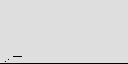
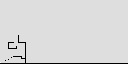
Tried to make the box2d world work. It doesn't.
Modified:
 WorldController: Switched some stuff. I know that's not descriptive but I'm in a hurry

Changed region(s): [[0.0625, 0.5312, 0.2188, 1.0], [0.0625, 0.875, 0.0938, 0.9062], [0.0312, 0.9375, 0.0625, 0.9688]]

diff --git a/Spooky/core/src/com/vgdc/spooky/WorldController.java b/Spooky/core/src/com/vgdc/spooky/WorldController.java
@@ -183,7 +183,7 @@ public class WorldController {
 		if (!cameraHelper.hasTarget(level.player)) return;
 
 		if (Gdx.input.isKeyPressed(Keys.W)) {
-			level.player.velocity.y = level.player.terminalVelocity.y;
+			level.player.body.linVelLoc.y = level.player.terminalVelocity.y;
 			level.player.setTexture(level.player.back);
 		} else if (Gdx.input.isKeyPressed(Keys.S)) {
 			level.player.velocity.y = -level.player.terminalVelocity.y;
@@ -191,10 +191,10 @@ public class WorldController {
 		}
 
 		if (Gdx.input.isKeyPressed(Keys.A)) {
-			level.player.velocity.x = -level.player.terminalVelocity.x;
+			level.player.body.linVelLoc.x = -level.player.terminalVelocity.x;
 			level.player.setTexture(level.player.left);
 		}else if (Gdx.input.isKeyPressed(Keys.D)) {
-			level.player.velocity.x = level.player.terminalVelocity.x;
+			level.player.body.linVelLoc.x = level.player.terminalVelocity.x;
 			level.player.setTexture(level.player.right);
 		}
 	}
@@ -208,7 +208,7 @@ public class WorldController {
 		for (Floor floor: level.tiles)
 		{
 			BodyDef bodyDef = new BodyDef();
-			bodyDef.type = BodyType.KinematicBody;
+			bodyDef.type = BodyType.DynamicBody;
 			bodyDef.position.set(floor.position);
 			Body body = b2World.createBody(bodyDef);
 			floor.body = body;
@@ -227,6 +227,7 @@ public class WorldController {
 		BodyDef bodyDef = new BodyDef();
 		bodyDef.type = BodyType.DynamicBody;
 		bodyDef.position.set(level.player.position);
+		bodyDef.fixedRotation = true;
 		Body body = b2World.createBody(bodyDef);
 		level.player.body = body;
 		PolygonShape polygonShape = new PolygonShape();
